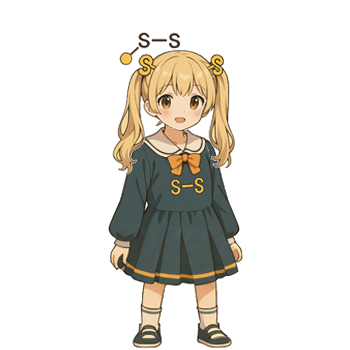
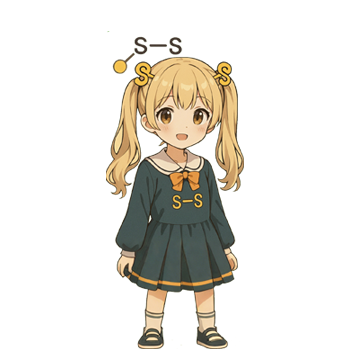
修复若干bug并优化部分美术资源

Changed region(s): [[0.2857, 0.0857, 0.7143, 1.0]]

diff --git a/src/main/java/SS/power/DyingPower.java b/src/main/java/SS/power/DyingPower.java
@@ -44,6 +44,13 @@ public class DyingPower extends AbstractPower implements OnPlayerDeathPower {
 
     @Override
     public void reducePower(int reduceAmount) {
+        if (amount == 0)
+            return;
+        for (AbstractPower p : this.owner.powers) {
+            if (p instanceof OnReduceDyingPowerSubscriber) {
+                ((OnReduceDyingPowerSubscriber) p).onReduceDyingPower(amount);
+            }
+        }
         if (this.amount - reduceAmount <= 0) {
             this.fontScale = 8.0F;
             this.amount = 0;
@@ -83,10 +90,8 @@ public class DyingPower extends AbstractPower implements OnPlayerDeathPower {
         addToBot(new DieAction());
     }
 
-    public void atEndOfTurn(boolean isPlayer) {
-        if (isPlayer) {
-            reduce(1);
-        }
+    public void atStartOfTurn() {
+        reduce(1);
     }
 
 }

diff --git a/src/main/java/SS/packages/HaoPackage/HaoPackage.java b/src/main/java/SS/packages/HaoPackage/HaoPackage.java
@@ -2,8 +2,6 @@ package SS.packages.HaoPackage;
 
 import java.util.ArrayList;
 
-import com.megacrit.cardcrawl.cards.AbstractCard;
-
 import SS.helper.ModHelper;
 import SS.packages.AbstractPackage;
 import SS.path.AbstractCardEnum;

diff --git a/src/main/java/SS/packages/HaoPackage/HaoPackage_e.java b/src/main/java/SS/packages/HaoPackage/HaoPackage_e.java
@@ -2,8 +2,6 @@ package SS.packages.HaoPackage;
 
 import java.util.ArrayList;
 
-import com.megacrit.cardcrawl.cards.AbstractCard;
-
 import SS.helper.ModHelper;
 import SS.packages.AbstractPackage;
 import SS.path.AbstractCardEnum;

diff --git a/src/main/java/SS/packages/HaoPackage/HaoPackage_v.java b/src/main/java/SS/packages/HaoPackage/HaoPackage_v.java
@@ -2,8 +2,6 @@ package SS.packages.HaoPackage;
 
 import java.util.ArrayList;
 
-import com.megacrit.cardcrawl.cards.AbstractCard;
-
 import SS.helper.ModHelper;
 import SS.packages.AbstractPackage;
 import SS.path.AbstractCardEnum;
